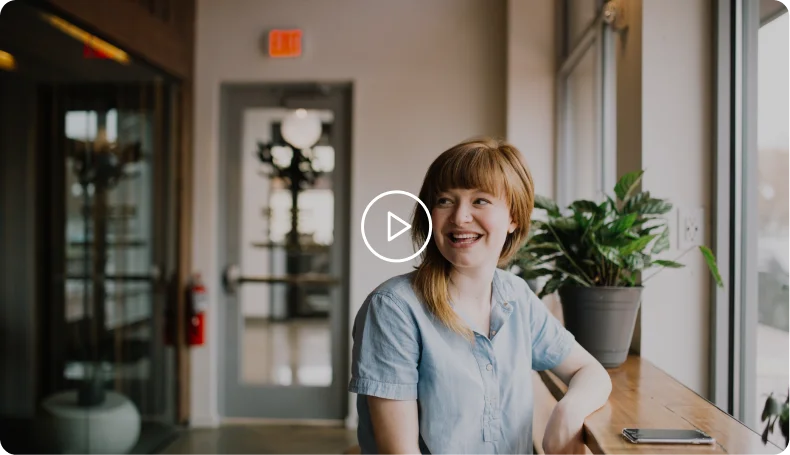
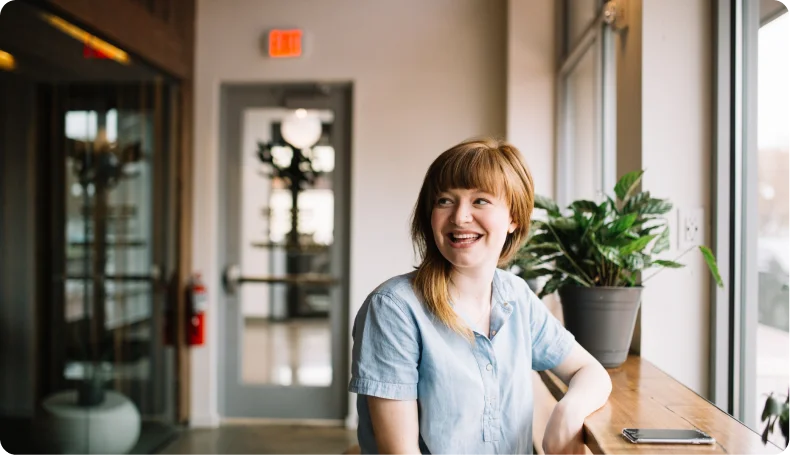
success section

diff --git a/styles/success.css b/styles/success.css
@@ -1,0 +1,104 @@
+.success {
+    background-color: var(--co-dark-green);
+}
+
+.success__wrapper {
+    padding: 220px 0;
+    display: flex;
+    justify-content: space-between;
+    align-items: start;
+    flex-wrap: wrap-reverse;
+    gap: 40px
+}
+
+.success__content {
+    margin: 50px 0 0 0;
+    max-width: 550px;
+    display: flex;
+    flex-direction: column;
+    place-items: start;
+    gap: 20px;
+}
+
+.success__title {
+    color: var(--co-white);
+    font-size: 50px;
+    font-weight: 700;
+}
+
+.success__description {
+    color: var(--co-white);
+    font-size: 25px;
+    font-weight: 600;
+}
+
+.success__content .btn {
+    margin: 50px 0 0 0;
+    width: 240px;
+    height: 65px;
+}
+
+.success__content .btn:hover {
+    outline: 2px solid var(--co-white);
+}
+
+.success__content-video {
+    max-width: 790px;
+    height: 455px;
+    position: relative;
+    border-radius: 16px;
+    overflow: hidden;
+
+}
+
+.success__cover {
+    width: 100%;
+    height: 100%;
+    object-fit: cover;
+    aspect-ratio: 158/91;
+}
+
+.success__play-icon {
+    position: absolute;
+    z-index: 2;
+    width: 72px;
+    height: 73px;
+    fill: var(--co-white);
+    top: 50%;
+    left: 50%;
+    translate: -50% -50%;
+}
+
+.success__play-icon:hover {
+    fill: var(--co-green);
+    cursor: pointer;
+}
+
+.success__gradient {
+    position: absolute;
+    z-index: 1;
+    inset: 0;
+    background: linear-gradient(180deg, rgba(0,0,0, .1), rgba(0,0,0, .5)) center/cover no-repeat;
+}
+
+@media (max-width: 1370px) {
+    .success__wrapper {
+        justify-content: center;
+    }
+    .success__content {
+        text-align: center;
+        place-items: center start;
+    }
+}
+
+@media (max-width: 576px) {
+    .success__wrapper {
+        padding: 150px 0;
+    }
+    .success__title {
+        font-size: 32px;
+    }
+    .success__description {
+        font-size: 20px;
+    }
+}

diff --git a/index.html b/index.html
@@ -98,6 +98,28 @@
                 </div>
             </div>
         </section>
+
+        <section class="success" aria-label="success section">
+            <div class="container">
+                <div class="success__wrapper">
+                    <div class="success__content">
+                        <h3 class="success__title">Let's hear about Kayla's success story</h3>
+                        <p class="success__description">
+                            See how well Alivio works in a real customer’s life.
+                        </p>
+                        <button class="btn">Let's get started</button>
+                    </div>
+
+                    <div class="success__content-video">
+                        <img src="assets/webp/video_cover.webp" class="success__cover" alt="video cover img">
+                        <svg class="success__play-icon" aria-label="play icon">
+                            <use href="assets/sprites.svg#play-icon"></use>
+                        </svg>
+                        <div class="success__gradient"></div>
+                    </div>
+                </div>
+            </div>
+        </section>
     </main>
 
 </body>

diff --git a/index.css b/index.css
@@ -4,3 +4,4 @@
 @import url('styles/hero.css');
 @import url('styles/about.css');
 @import url('styles/card.css');
+@import url('styles/success.css');
